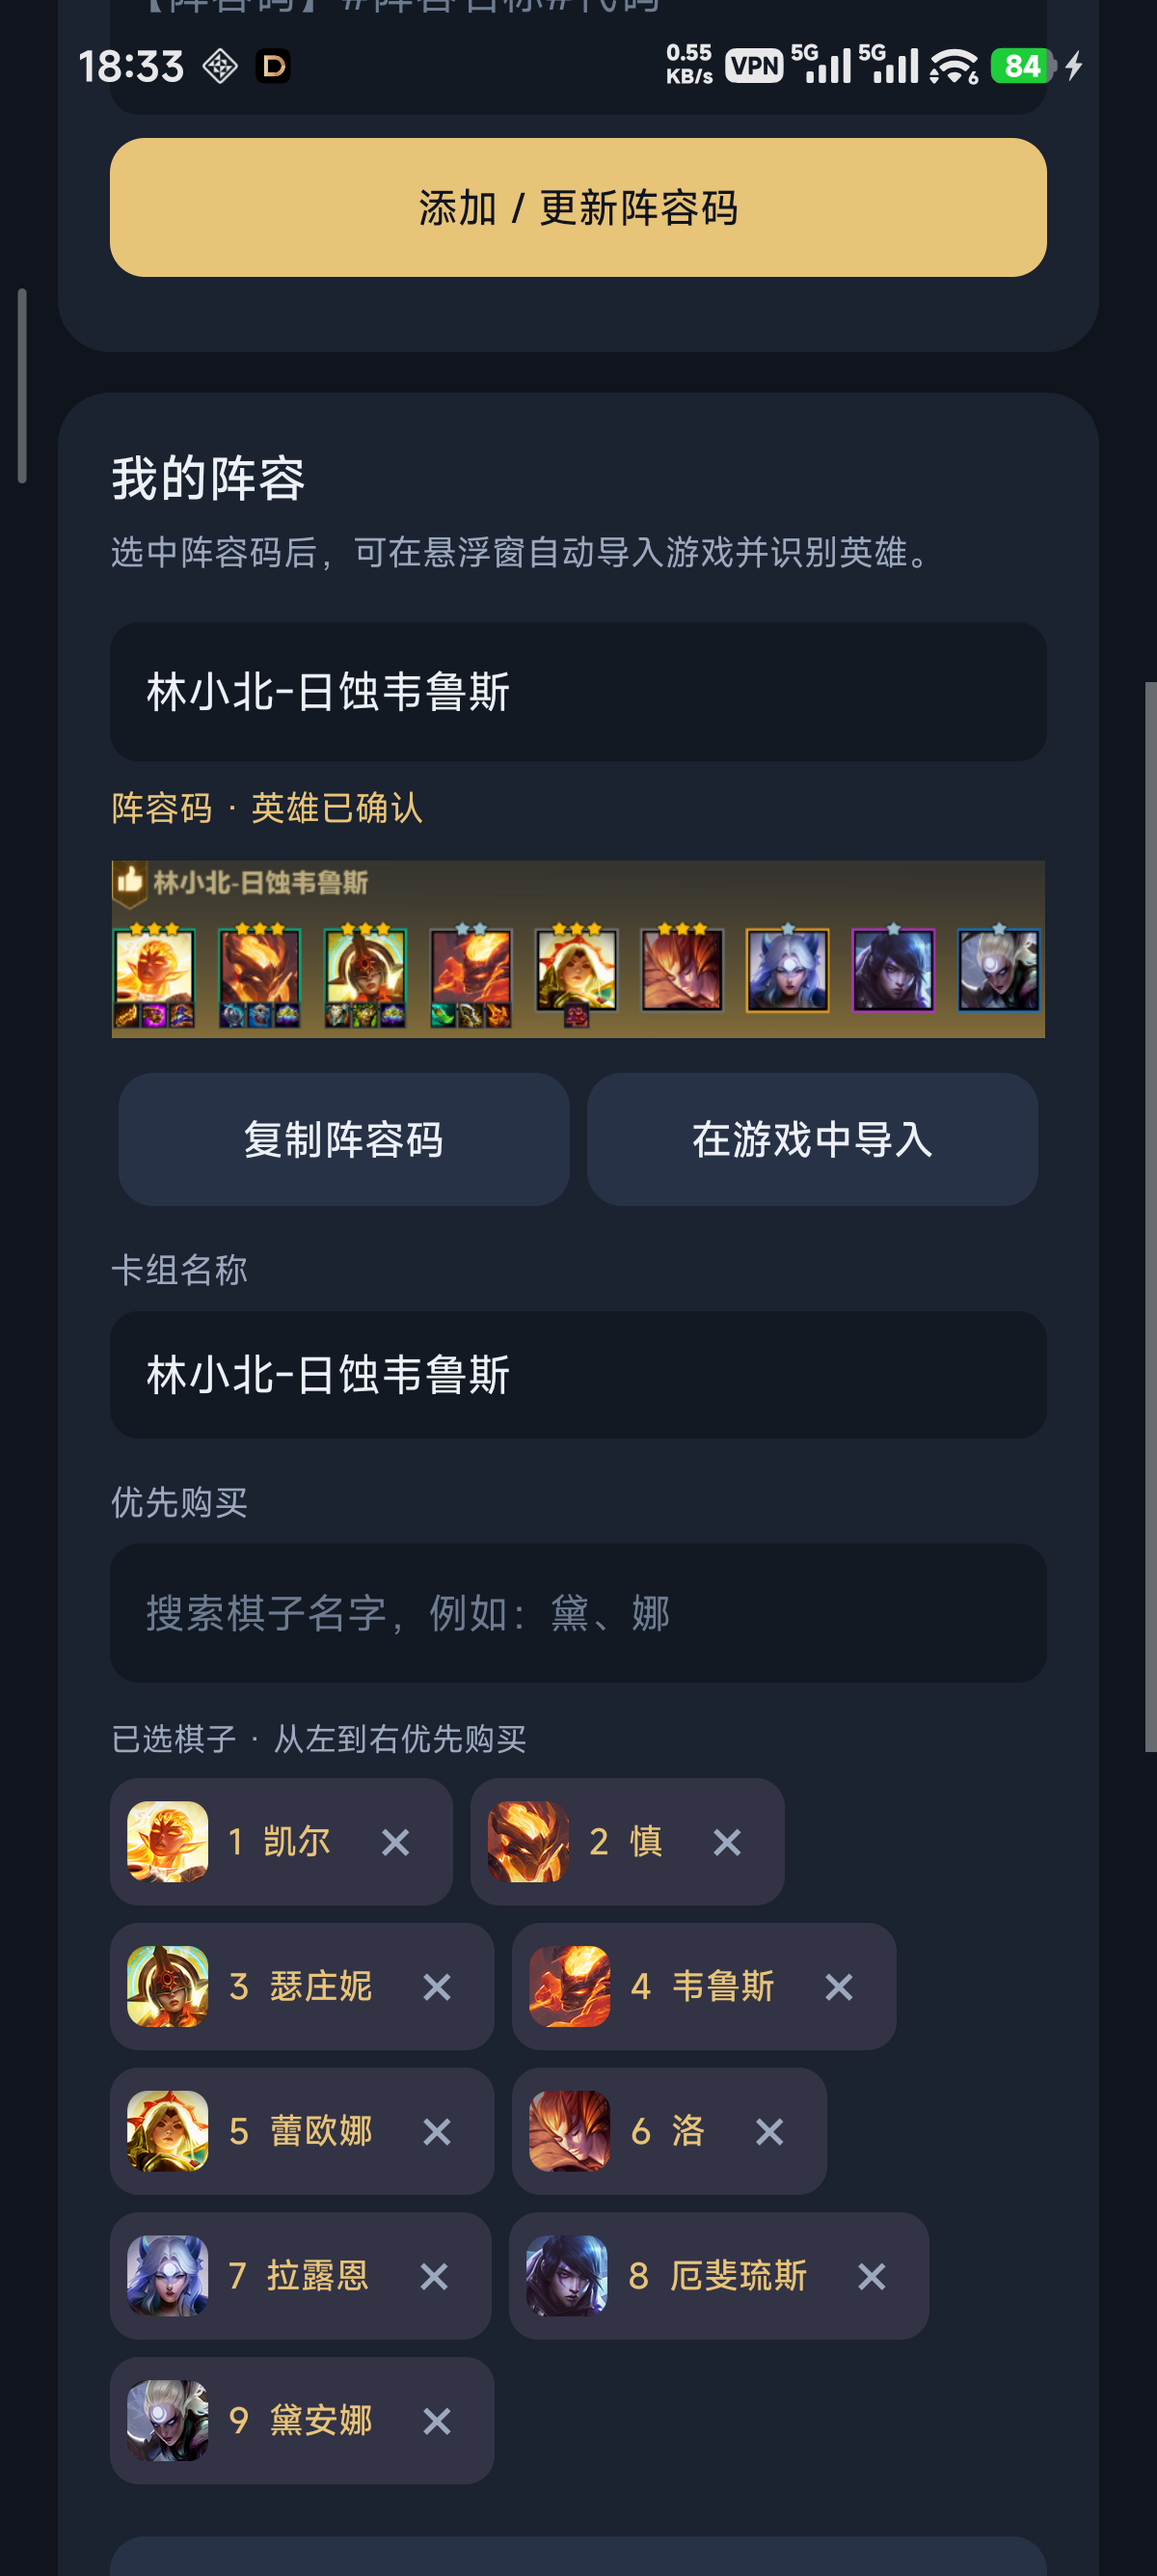
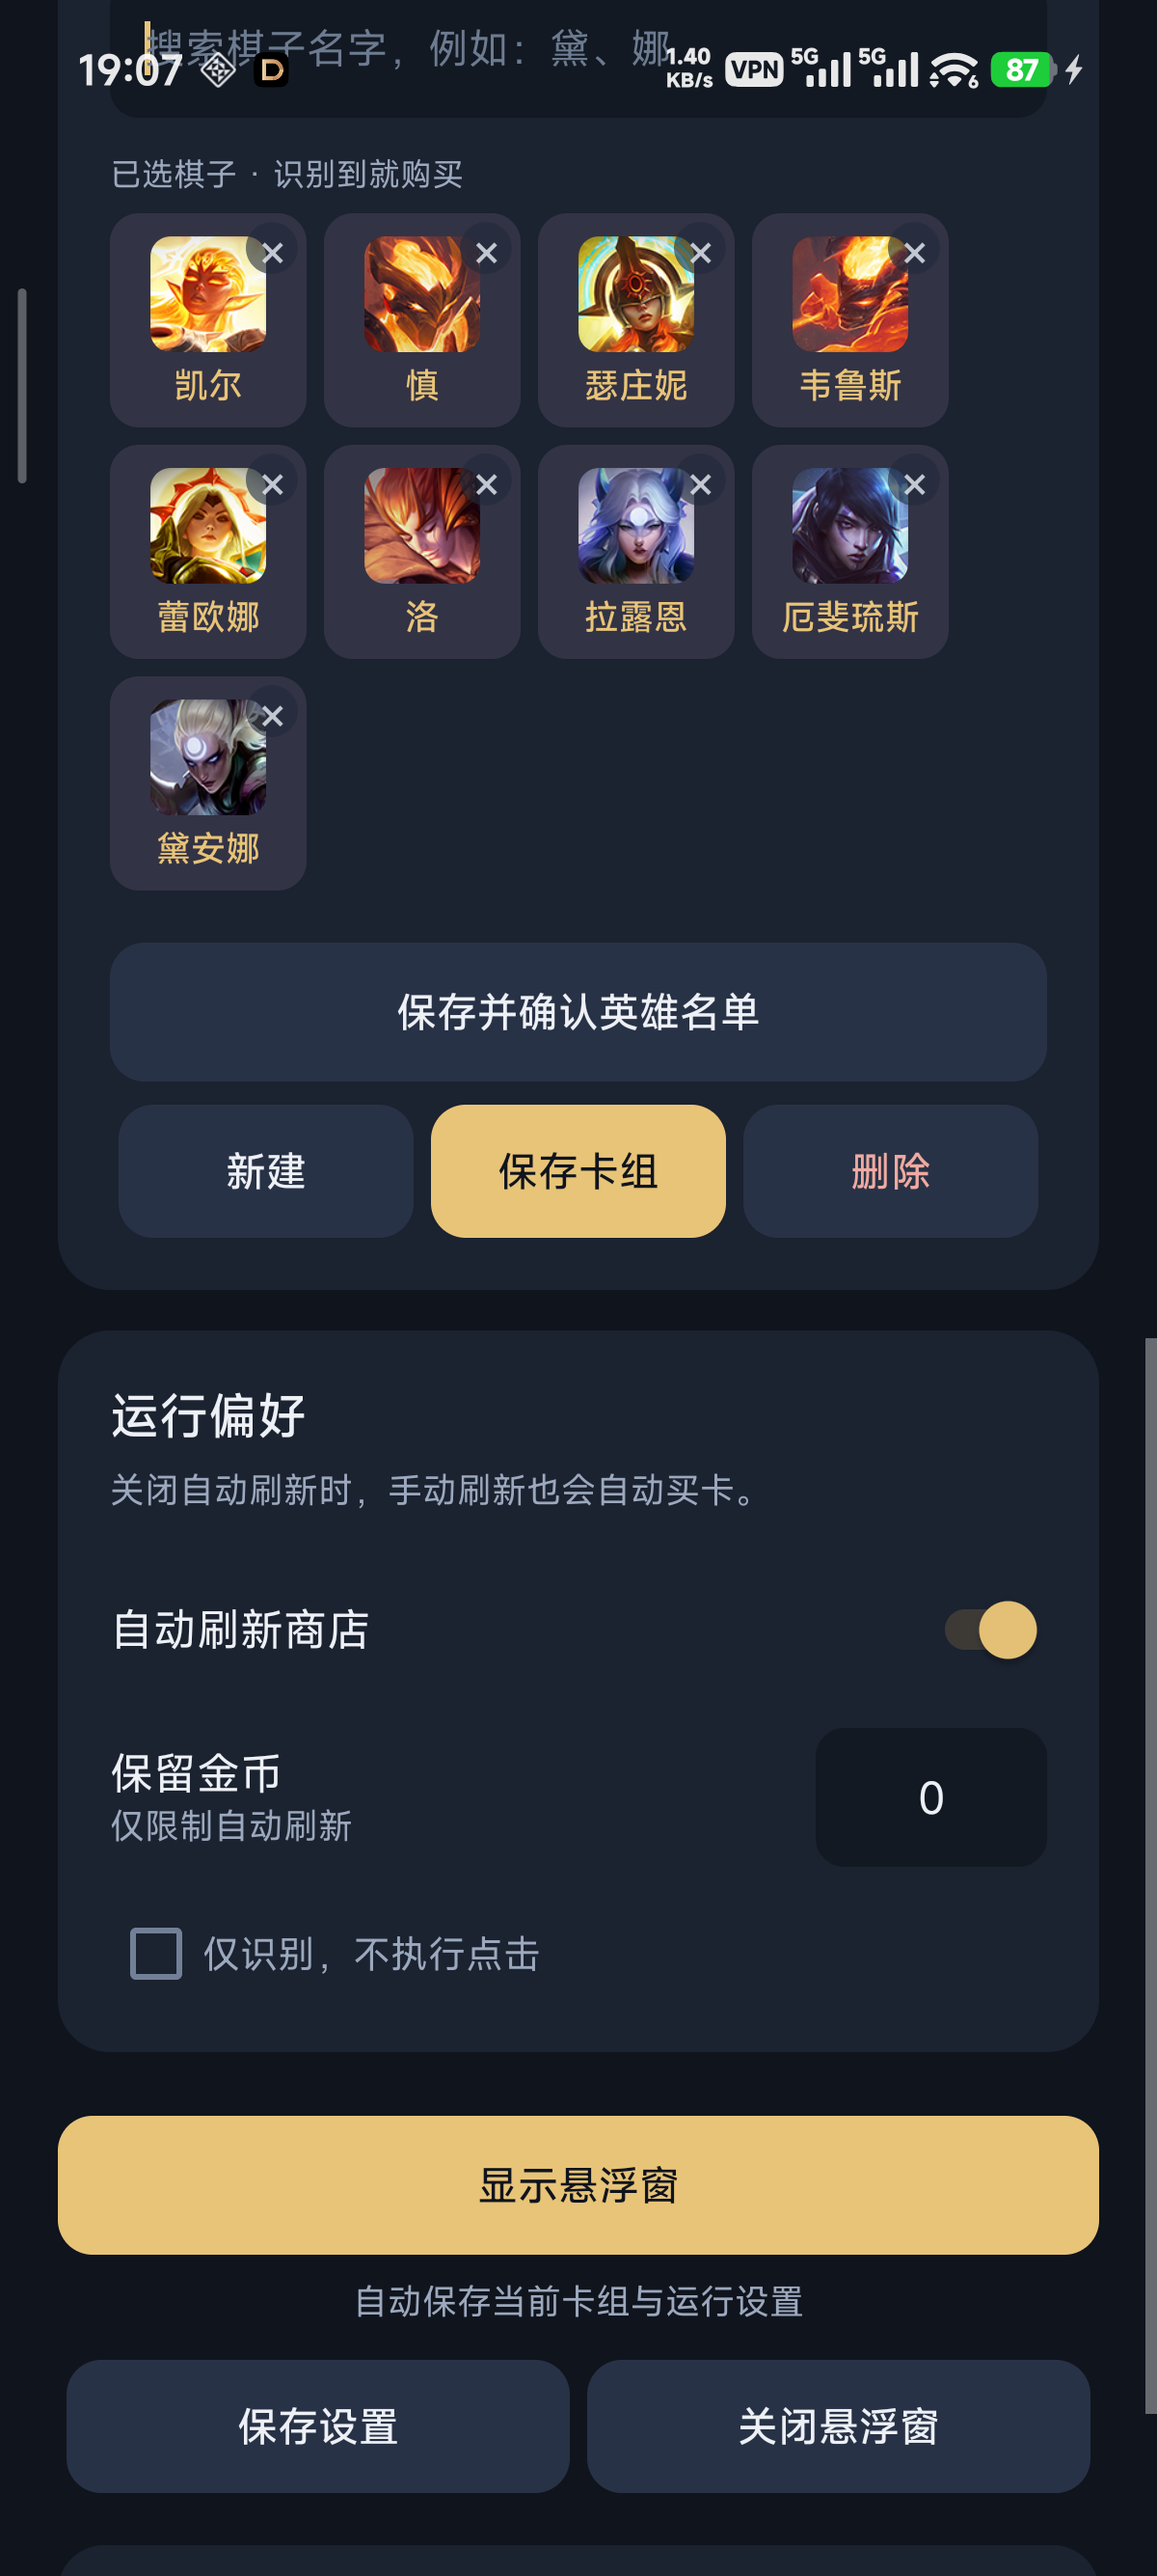
Use compact portrait cards with corner remove badges and balanced spacing

diff --git a/app/src/main/java/local/jcc/probe/CardPicker.java b/app/src/main/java/local/jcc/probe/CardPicker.java
@@ -80,14 +80,27 @@ final class CardPicker extends LinearLayout {
         for (int i = 0; i < selected.size(); i++) {
             String name = selected.get(i); Card card = null;
             for (Card c : catalog) if (c.name.equals(name)) { card = c; break; }
-            LinearLayout chip = new LinearLayout(getContext()); chip.setGravity(Gravity.CENTER_VERTICAL);
-            chip.setPadding(dp(6), 0, 0, 0); chip.setBackground(shape(0xff333346, 10));
-            if (card != null) addPortrait(chip, card, 28);
-            TextView label = text(name, 12, GOLD); label.setPadding(dp(7), 0, dp(2), 0); label.setTypeface(null, Typeface.BOLD);
-            chip.addView(label);
-            TextView remove = text("×", 21, MUTED); remove.setGravity(Gravity.CENTER); remove.setContentDescription("移除" + name);
-            remove.setOnClickListener(v -> { selected.remove(name); renderChips(); showResults(); }); chip.addView(remove, new LayoutParams(dp(40), dp(44)));
-            chips.addView(chip, new ViewGroup.LayoutParams(-2, dp(44)));
+            FrameLayout chip = new FrameLayout(getContext()); chip.setBackground(shape(0xff333346, 10));
+            LinearLayout portrait = new LinearLayout(getContext()); portrait.setGravity(Gravity.CENTER);
+            if (card != null) addPortrait(portrait, card, 40);
+            else { TextView fallback=text(name.substring(0,1),22,GOLD);fallback.setGravity(Gravity.CENTER);portrait.addView(fallback,new LayoutParams(dp(40),dp(40))); }
+            FrameLayout.LayoutParams portraitParams=new FrameLayout.LayoutParams(dp(40),dp(40),Gravity.TOP | Gravity.CENTER_HORIZONTAL);
+            portraitParams.topMargin=dp(8);chip.addView(portrait,portraitParams);
+            TextView label = text(name, 12, GOLD); label.setGravity(Gravity.CENTER); label.setSingleLine(true);label.setTypeface(null, Typeface.BOLD);
+            label.setAutoSizeTextTypeUniformWithConfiguration(8,12,1,android.util.TypedValue.COMPLEX_UNIT_SP);
+            label.setPadding(dp(3),0,dp(3),0);label.setIncludeFontPadding(false);
+            FrameLayout.LayoutParams labelParams=new FrameLayout.LayoutParams(-1,dp(23),Gravity.BOTTOM);
+            labelParams.bottomMargin=dp(3);chip.addView(label,labelParams);
+            FrameLayout remove = new FrameLayout(getContext()); remove.setContentDescription("移除" + name);
+            remove.setFocusable(true);
+            remove.setBackground(new android.graphics.drawable.RippleDrawable(android.content.res.ColorStateList.valueOf(0x33ffffff), null, shape(0xffffffff, 14)));
+            TextView badge = text("×", 16, 0xcce8edf5); badge.setGravity(Gravity.CENTER); badge.setIncludeFontPadding(false);
+            badge.setBackground(shape(0x99202a3b, 9)); badge.setImportantForAccessibility(View.IMPORTANT_FOR_ACCESSIBILITY_NO);
+            FrameLayout.LayoutParams badgeParams = new FrameLayout.LayoutParams(dp(18), dp(18), Gravity.TOP | Gravity.RIGHT);
+            badgeParams.topMargin=dp(3); badgeParams.rightMargin=dp(3); remove.addView(badge, badgeParams);
+            remove.setOnClickListener(v -> { selected.remove(name); renderChips(); showResults(); });
+            chip.addView(remove, new FrameLayout.LayoutParams(dp(28), dp(28), Gravity.TOP | Gravity.RIGHT));
+            chips.addView(chip, new ViewGroup.LayoutParams(dp(68), dp(74)));
         }
     }
     private void addPortrait(LinearLayout parent, Card card, int size) {
@@ -107,7 +120,7 @@ final class CardPicker extends LinearLayout {
         @Override protected void onMeasure(int ws, int hs) {
             int width = MeasureSpec.getSize(ws), x = 0, y = 0, height = 0, gap = dp(6);
             for (int i = 0; i < getChildCount(); i++) {
-                View child = getChildAt(i); child.measure(MeasureSpec.makeMeasureSpec(width, MeasureSpec.AT_MOST), MeasureSpec.makeMeasureSpec(dp(44), MeasureSpec.EXACTLY));
+                View child = getChildAt(i); child.measure(MeasureSpec.makeMeasureSpec(dp(68), MeasureSpec.EXACTLY), MeasureSpec.makeMeasureSpec(dp(74), MeasureSpec.EXACTLY));
                 if (x > 0 && x + child.getMeasuredWidth() > width) { x = 0; y += height + gap; height = 0; }
                 x += child.getMeasuredWidth() + gap; height = Math.max(height, child.getMeasuredHeight());
             }

diff --git a/README.md b/README.md
@@ -7,7 +7,7 @@
 
 以阵容码为主要入口的金铲铲阵容管理与商店辅助。粘贴常用阵容码，在悬浮窗选择阵容，即可导入游戏、应用收藏、保存阵容预览，并按英雄名单辅助拿卡；也支持手动搜索选卡。识别与数据保存均在手机本地完成。
 
-**当前源码与最新发布 APK：v0.10.2** · **实机适配：小米 14 / 2670 × 1200 横屏** · **识别在手机本地完成**
+**当前源码：v0.10.3；最新发布 APK：v0.10.2** · **实机适配：小米 14 / 2670 × 1200 横屏** · **识别在手机本地完成**
 
 [下载 APK](https://github.com/pengmaochang/jinchanchan-helper/releases/latest) · [开发与测试](docs/DEVELOPMENT.md) · [更新记录](docs/CHANGELOG.md) · [v0.10.2 发布说明](docs/releases/v0.10.2.md) · [素材与依赖说明](THIRD_PARTY_NOTICES.md)
 
@@ -84,11 +84,11 @@
 
 ## 界面预览
 
-以下为 **v0.10.0 测试版 / 小米 14 实机截图**。截图中的英雄编号及“优先购买”文案已在 v0.10.2 移除，当前界面显示“购买目标”，名单不设优先级。阵容详情展示了导入后的本地阵容图与英雄购买名单；悬浮面板中自动拿卡关闭、自动刷新开启，刷新留金为 0，仅用于展示当前设置，不代表默认值。
+以下为 **小米 14 实机截图**：阵容详情为 v0.10.3，其余为 v0.10.0。当前已选棋子采用上方头像、下方名字、右上角半透明移除按钮的卡片，不显示编号，名单不设优先级。首页展示导入后的本地阵容图，新版棋子卡片展示已选英雄名单；悬浮面板中自动拿卡关闭、自动刷新开启，刷新留金为 0，仅用于展示当前设置，不代表默认值。
 
-| 阵容码管理首页 | 阵容预览与英雄名单 |
+| 阵容码管理首页 | 新版已选棋子卡片 |
 | --- | --- |
-| <img src="docs/screenshots/main.png" alt="v0.10.0 首页：批量添加阵容码、自动提取名称与本地预览" width="320"> | <img src="docs/screenshots/lineup.png" alt="v0.10.0 阵容详情：紧凑阵容图、复制与导入按钮、可编辑英雄名单" width="320"> |
+| <img src="docs/screenshots/main.png" alt="v0.10.0 首页：批量添加阵容码、自动提取名称与本地预览" width="320"> | <img src="docs/screenshots/lineup.png" alt="v0.10.3 已选棋子：上方头像、下方名字、右上角半透明移除按钮" width="320"> |
 
 | 运行偏好 | 悬浮阵容选择与控制 |
 | --- | --- |
@@ -97,7 +97,7 @@
 ## 功能
 
 - **阵容码管理**：批量保存分享码、自动提取名称、悬浮窗切换、导入第三套收藏、应用并更新阵容预览与英雄名单。
-- **搜索选卡**：输入部分中文卡名，点选候选即可加入展示区；棋子显示头像、名字和移除按钮 `×`。
+- **搜索选卡**：输入部分中文卡名，点选候选即可加入展示区；棋子以卡片展示，上方头像、下方名字，右上角半透明 `×` 可移除。
 - **保存卡组**：最多保存 200 套，每套最多 20 个目标。阵容名称最长 80 字符，名字相同的棋子不会重复加入。
 - **识别到目标就购买**：目标名单不设优先级；按商店位置从左到右，将当前买得起的目标加入批量点击，某张买不起或费用未读清时仍可购买其他目标。
 - **两种刷新模式**：关闭自动刷新时，由你手动刷新、助手购买；开启后，助手在目标购买完并确认商店状态后继续刷新。

diff --git a/docs/CHANGELOG.md b/docs/CHANGELOG.md
@@ -1,5 +1,11 @@
 # 更新记录
 
+## v0.10.3
+
+- 已选棋子改为统一网格卡片：上方头像、下方名字，右上角半透明圆形 `×`，点按区域大于可见图标。
+- 收紧头像与名字的间距，保持上下留白接近一致；长名字自动缩小，保留完整名称。
+- 阵容详情配图更新为新版实机卡片布局。
+
 ## v0.10.2
 
 - 取消目标购买优先级，按商店位置将可识别、买得起的目标加入购买批次，保存名单的排列顺序不再影响拿卡。
